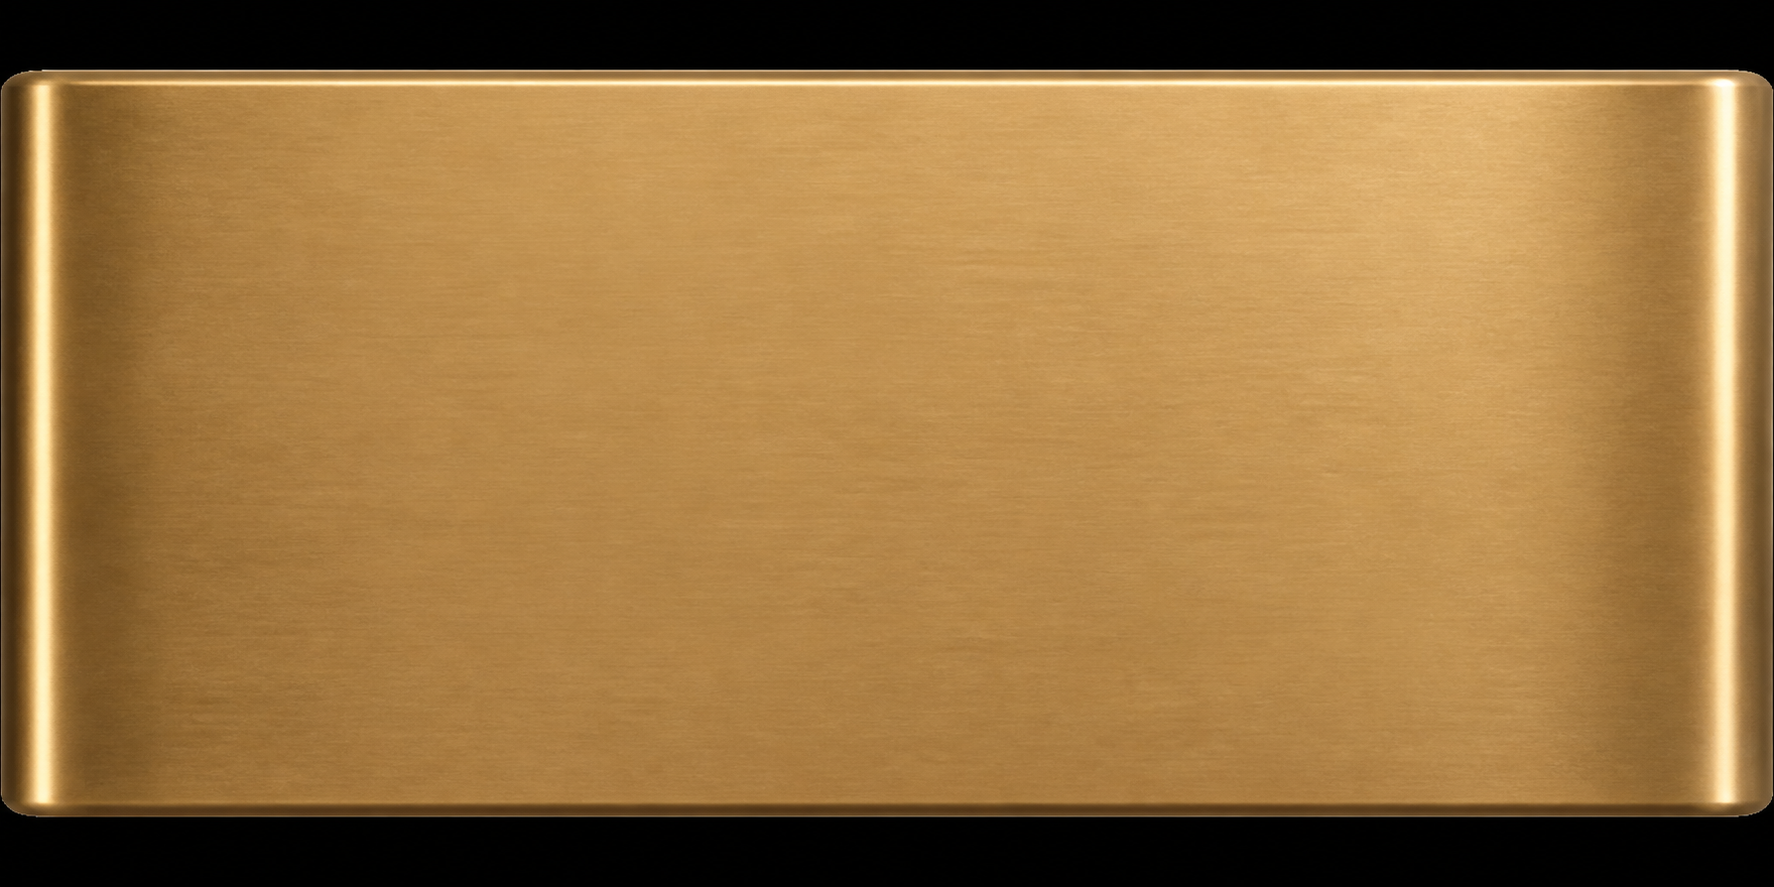
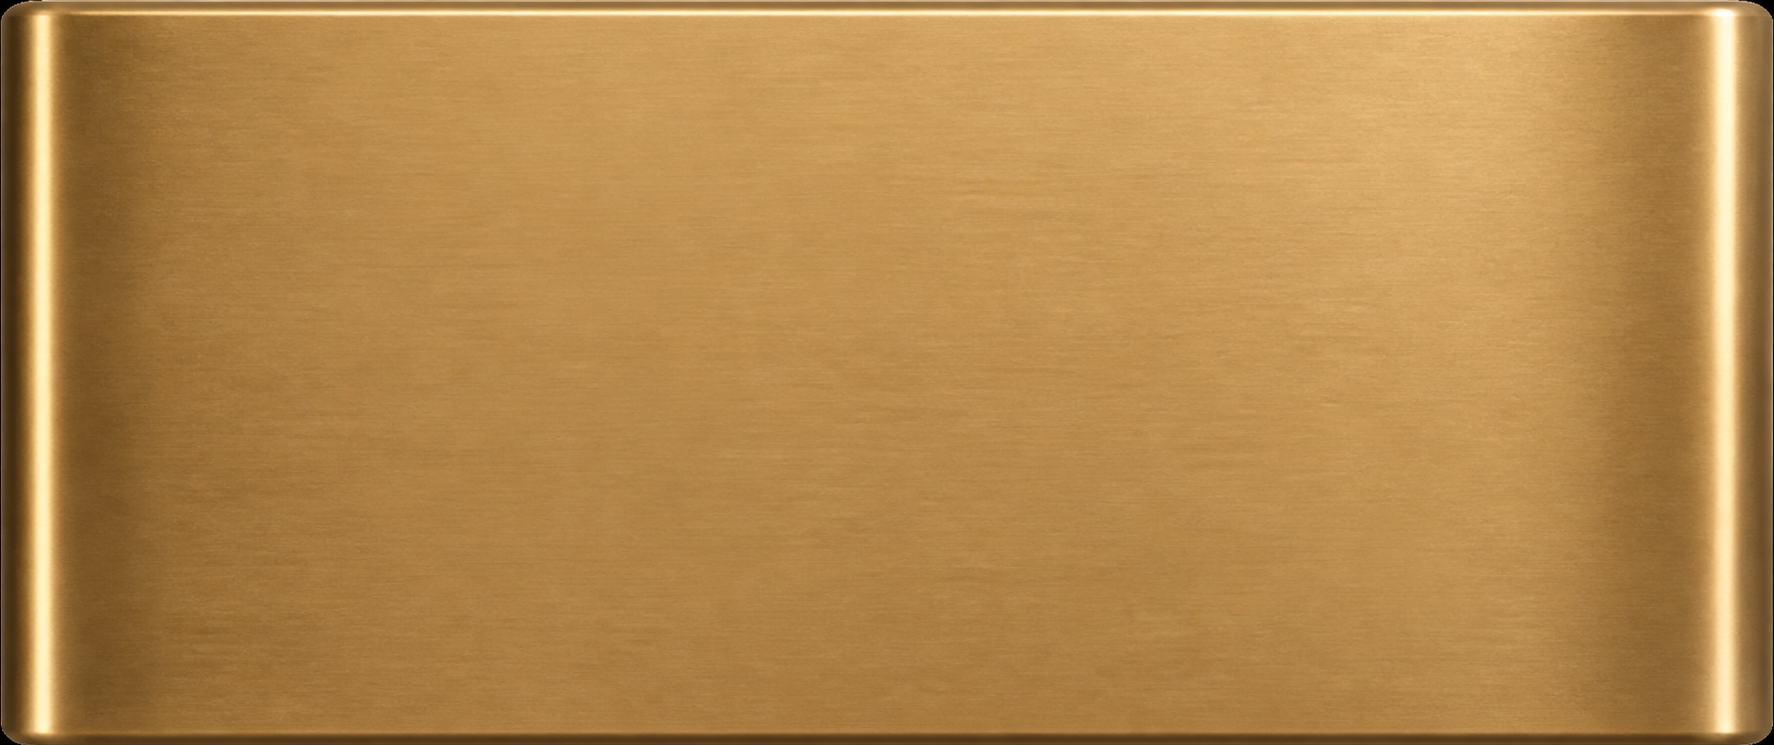
Bring controls forward and refresh visual assets

Changed region(s): [[0.0, 0.8953, 1.0, 1.0], [0.0, 0.0, 1.0, 0.1235]]

diff --git a/Source/UI/SectionBuilder.h b/Source/UI/SectionBuilder.h
@@ -152,6 +152,7 @@ struct SectionUI
     // rack-plate photo backdrop is drawn behind this section's children.
     juce::Rectangle<int> bounds;
     juce::Rectangle<int> ledBounds;
+    juce::ImageComponent ledImage;
     int plateIndex = 0;
 };
 
@@ -218,15 +219,6 @@ inline void paintSectionPlate (juce::Graphics& g, const SectionUI& section)
         g.setColour (juce::Colours::black.withAlpha (0.55f));
         g.drawRoundedRectangle (bounds.reduced (0.75f), 9.0f, 1.25f);
 
-        if (section.hasToggle && ! section.ledBounds.isEmpty())
-        {
-            static const auto ledOff = juce::ImageCache::getFromMemory (
-                BinaryData::led_effect_off_png, BinaryData::led_effect_off_pngSize);
-            static const auto ledOn = juce::ImageCache::getFromMemory (
-                BinaryData::led_effect_on_png, BinaryData::led_effect_on_pngSize);
-            const auto& led = section.toggle.getToggleState() ? ledOn : ledOff;
-            g.drawImage (led, section.ledBounds.toFloat(), juce::RectanglePlacement::stretchToFit);
-        }
         return;
     }
 
@@ -269,6 +261,8 @@ inline void layoutHorizontalRackSection (SectionUI& section, juce::Rectangle<int
     auto titleArea = identity;
     auto ledArea = titleArea.removeFromLeft (68);
     section.ledBounds = ledArea.withSizeKeepingCentre (60, 60);
+    section.ledImage.setBounds (section.ledBounds);
+    section.ledImage.toFront (false);
     section.titleLabel.setVisible (! section.hasToggle);
     section.titleLabel.setBounds (titleArea);
     if (section.hasToggle)
@@ -289,8 +283,11 @@ inline void layoutHorizontalRackSection (SectionUI& section, juce::Rectangle<int
     {
         knob->slider.setTextBoxStyle (juce::Slider::NoTextBox, false, 0, 0);
         auto cell = area.removeFromLeft (cellWidth);
-        knob->slider.setBounds (cell.reduced (4, 3).withTrimmedTop (15));
+        knob->slider.setBounds (cell.reduced (6, 8).withTrimmedTop (12));
+        knob->slider.toFront (false);
     }
+    section.ledImage.toFront (false);
+    section.toggle.toFront (false);
 }
 
 // Adds title/toggle/knobs as children of `parent` and wires them to `apvts`.
@@ -318,10 +315,22 @@ inline void buildSection (SectionUI& section, juce::Component& parent,
         section.toggle.setButtonText (title);
         section.toggle.setTitle (title + " bypass");
         section.toggle.setHelpText ("Enable or bypass the " + title + " section");
-        section.toggle.onStateChange = [&parent] { parent.repaint(); };
+        const auto updateLed = [&section]
+        {
+            static const auto ledOff = juce::ImageCache::getFromMemory (
+                BinaryData::led_effect_off_png, BinaryData::led_effect_off_pngSize);
+            static const auto ledOn = juce::ImageCache::getFromMemory (
+                BinaryData::led_effect_on_png, BinaryData::led_effect_on_pngSize);
+            section.ledImage.setImage (section.toggle.getToggleState() ? ledOn : ledOff,
+                                       juce::RectanglePlacement::stretchToFit);
+        };
+        section.toggle.onStateChange = [&parent, updateLed] { updateLed(); parent.repaint(); };
         parent.addAndMakeVisible (section.toggle);
+        section.ledImage.setInterceptsMouseClicks (false, false);
+        parent.addAndMakeVisible (section.ledImage);
         section.toggleAttachment = std::make_unique<juce::AudioProcessorValueTreeState::ButtonAttachment> (
             apvts, toggleParamId, section.toggle);
+        updateLed();
     }
 
     for (auto& [paramId, labelText] : paramIdAndLabel)

diff --git a/Source/PluginEditor.cpp b/Source/PluginEditor.cpp
@@ -18,6 +18,10 @@ ThreadlineAudioProcessorEditor::ThreadlineAudioProcessorEditor (ThreadlineAudioP
 {
     setLookAndFeel (&buttonLookAndFeel);
     logoImage = juce::ImageCache::getFromMemory (BinaryData::threadline_logo_png, BinaryData::threadline_logo_pngSize);
+    logoComponent.setImage (logoImage, juce::RectanglePlacement (juce::RectanglePlacement::centred
+                                                                  | juce::RectanglePlacement::onlyReduceInSize));
+    logoComponent.setInterceptsMouseClicks (false, false);
+    addAndMakeVisible (logoComponent);
 
     // --- Preset bar: same control structure and vector icons as Rockalizer ---
     presetBox.setEditableText (true);
@@ -115,6 +119,7 @@ ThreadlineAudioProcessorEditor::ThreadlineAudioProcessorEditor (ThreadlineAudioP
         gateSection.knobs[0]->label.setVisible (false);
     gateSection.titleLabel.setVisible (false);
     gateSection.toggle.setButtonText ("GATE");
+    gateSection.toggle.setWordmarkStyle (true);
 
     setupUtilityKnob (inputLabel, inputGainKnob, "Input");
     setupUtilityKnob (outputLabel, outputGainKnob, "Output");
@@ -253,18 +258,6 @@ void ThreadlineAudioProcessorEditor::paint (juce::Graphics& g)
 {
     paintThreadlineBackground (g, getLocalBounds());
 
-    if (logoImage.isValid())
-    {
-        // Same on-screen box Rockalizer draws its own logo into (252x80 at
-        // (46,10)), so Threadline's logo reads at the same size/weight.
-        const auto scaleX = static_cast<float> (getWidth()) / 1200.0f;
-        const auto scaleY = static_cast<float> (getHeight()) / 660.0f;
-        auto logoArea = juce::Rectangle<float> (46.0f * scaleX, 10.0f * scaleY,
-                                                252.0f * scaleX, 80.0f * scaleY);
-        g.drawImage (logoImage, logoArea, juce::RectanglePlacement (juce::RectanglePlacement::centred
-                                                                    | juce::RectanglePlacement::onlyReduceInSize));
-    }
-
     paintCard (g, presetCardBounds, 8.0f);
 
     // Gate, Input and Output read as one compact global utility strip.
@@ -301,6 +294,8 @@ void ThreadlineAudioProcessorEditor::resized()
     deletePresetButton.setBounds (rect (800, 28, 40, 36));
     optionsMenuButton.setBounds (rect (1004, 18, 56, 56));
     powerButton.setBounds (rect (1084, 18, 56, 56));
+    logoComponent.setBounds (rect (46, 10, 252, 80));
+    logoComponent.toFront (false);
 
     // Exact Rockalizer footer frame, positions and control sizes.
     utilityFrameBounds = rect (28, 546, 1144, 108);

diff --git a/Source/UI/ThreadlineComponents.h b/Source/UI/ThreadlineComponents.h
@@ -68,7 +68,10 @@ public:
         if (getTextBoxPosition() == juce::Slider::TextBoxBelow)
             bounds.removeFromBottom ((float) getTextBoxHeight());
 
-        auto side = juce::jmin (bounds.getWidth(), bounds.getHeight());
+        // Keep rotated photo corners and the lower shadow inside the component.
+        // Vintage chicken-heads need a little more rotational clearance.
+        const auto clearance = style == Style::Vintage ? 0.80f : 0.86f;
+        auto side = juce::jmin (bounds.getWidth(), bounds.getHeight()) * clearance;
         auto knobBounds = juce::Rectangle<float> (side, side).withCentre (bounds.getCentre());
 
         // The source PNGs contain transparent pixels around and within the
@@ -211,6 +214,29 @@ public:
                                           juce::Font::bold));
             g.drawFittedText (getButtonText(), bounds.reduced (3, 0).toNearestInt(),
                               juce::Justification::centredLeft, 1);
+            return;
+        }
+
+        static const auto off = juce::ImageCache::getFromMemory (
+            BinaryData::button_off_png, BinaryData::button_off_pngSize);
+        static const auto offHover = juce::ImageCache::getFromMemory (
+            BinaryData::button_off_hover_png, BinaryData::button_off_hover_pngSize);
+        static const auto offPressed = juce::ImageCache::getFromMemory (
+            BinaryData::button_off_pressed_png, BinaryData::button_off_pressed_pngSize);
+        static const auto onImage = juce::ImageCache::getFromMemory (
+            BinaryData::button_on_png, BinaryData::button_on_pngSize);
+        static const auto onHover = juce::ImageCache::getFromMemory (
+            BinaryData::button_on_hover_png, BinaryData::button_on_hover_pngSize);
+        static const auto onPressed = juce::ImageCache::getFromMemory (
+            BinaryData::button_on_pressed_png, BinaryData::button_on_pressed_pngSize);
+
+        const auto& image = on ? (down ? onPressed : (hovered ? onHover : onImage))
+                               : (down ? offPressed : (hovered ? offHover : off));
+        if (image.isValid())
+        {
+            const auto side = juce::jmin (bounds.getWidth(), bounds.getHeight());
+            g.drawImage (image, juce::Rectangle<float> (side, side).withCentre (bounds.getCentre()),
+                         juce::RectanglePlacement::stretchToFit);
             return;
         }
 

diff --git a/Source/UI/Page2Component.cpp b/Source/UI/Page2Component.cpp
@@ -51,14 +51,6 @@ void Page2Component::paint (juce::Graphics& g)
         auto placement = juce::RectanglePlacement (juce::RectanglePlacement::centred
                                                    | juce::RectanglePlacement::onlyReduceInSize);
         auto ampArea = ampImageFrameBounds.toFloat().reduced (18.0f);
-        auto shadow = ampArea.reduced (ampArea.getWidth() * 0.08f, ampArea.getHeight() * 0.09f)
-                             .translated (10.0f, 15.0f);
-        juce::ColourGradient shadowFill (juce::Colours::black.withAlpha (0.48f),
-                                         shadow.getCentreX(), shadow.getY(),
-                                         juce::Colours::black.withAlpha (0.04f),
-                                         shadow.getCentreX(), shadow.getBottom(), false);
-        g.setGradientFill (shadowFill);
-        g.fillRoundedRectangle (shadow, 24.0f);
         g.drawImage (ampImage, ampArea, placement);
     }
 
@@ -89,6 +81,9 @@ void Page2Component::resized()
     ampDriveKnob.setBounds (knobRow.removeFromLeft (knobWidth).reduced (knobInset, 0));
     ampToneKnob.setBounds (knobRow.removeFromLeft (knobWidth).reduced (knobInset, 0));
     ampOutputKnob.setBounds (knobRow.reduced (knobInset, 0));
+    ampDriveKnob.toFront (false);
+    ampToneKnob.toFront (false);
+    ampOutputKnob.toFront (false);
 
     auto cabRow = area;
     cabSection.bounds = cabRow;

diff --git a/Source/UI/Page4Component.cpp b/Source/UI/Page4Component.cpp
@@ -19,7 +19,7 @@ namespace
         label.setText (text, juce::dontSendNotification);
         label.setJustificationType (juce::Justification::centred);
         label.setFont (juce::FontOptions (13.0f, juce::Font::bold));
-        label.setColour (juce::Label::textColourId, ThreadlineColours::textCream);
+        label.setColour (juce::Label::textColourId, juce::Colour (0xff251a12));
         parent.addAndMakeVisible (label);
         parent.addAndMakeVisible (toggle);
         parent.addAndMakeVisible (knob);
@@ -44,7 +44,7 @@ Page4Component::Page4Component (ThreadlineAudioProcessor& p)
         band->freqLabel.setText (formatFrequencyLabel (freqs[(size_t) i]), juce::dontSendNotification);
         band->freqLabel.setJustificationType (juce::Justification::centred);
         band->freqLabel.setFont (juce::FontOptions (11.0f));
-        band->freqLabel.setColour (juce::Label::textColourId, ThreadlineColours::textDim);
+        band->freqLabel.setColour (juce::Label::textColourId, juce::Colour (0xff251a12));
         addAndMakeVisible (band->freqLabel);
 
         band->attachment = std::make_unique<juce::AudioProcessorValueTreeState::SliderAttachment> (

diff --git a/Source/PluginEditor.h b/Source/PluginEditor.h
@@ -261,6 +261,7 @@ private:
     ThreadlineButtonLookAndFeel buttonLookAndFeel;
 
     juce::Image logoImage;
+    juce::ImageComponent logoComponent;
     juce::Rectangle<int> presetCardBounds;
 
     // --- Preset bar: Add (new) / Save (overwrite current) / Delete, plus prev/next ---
